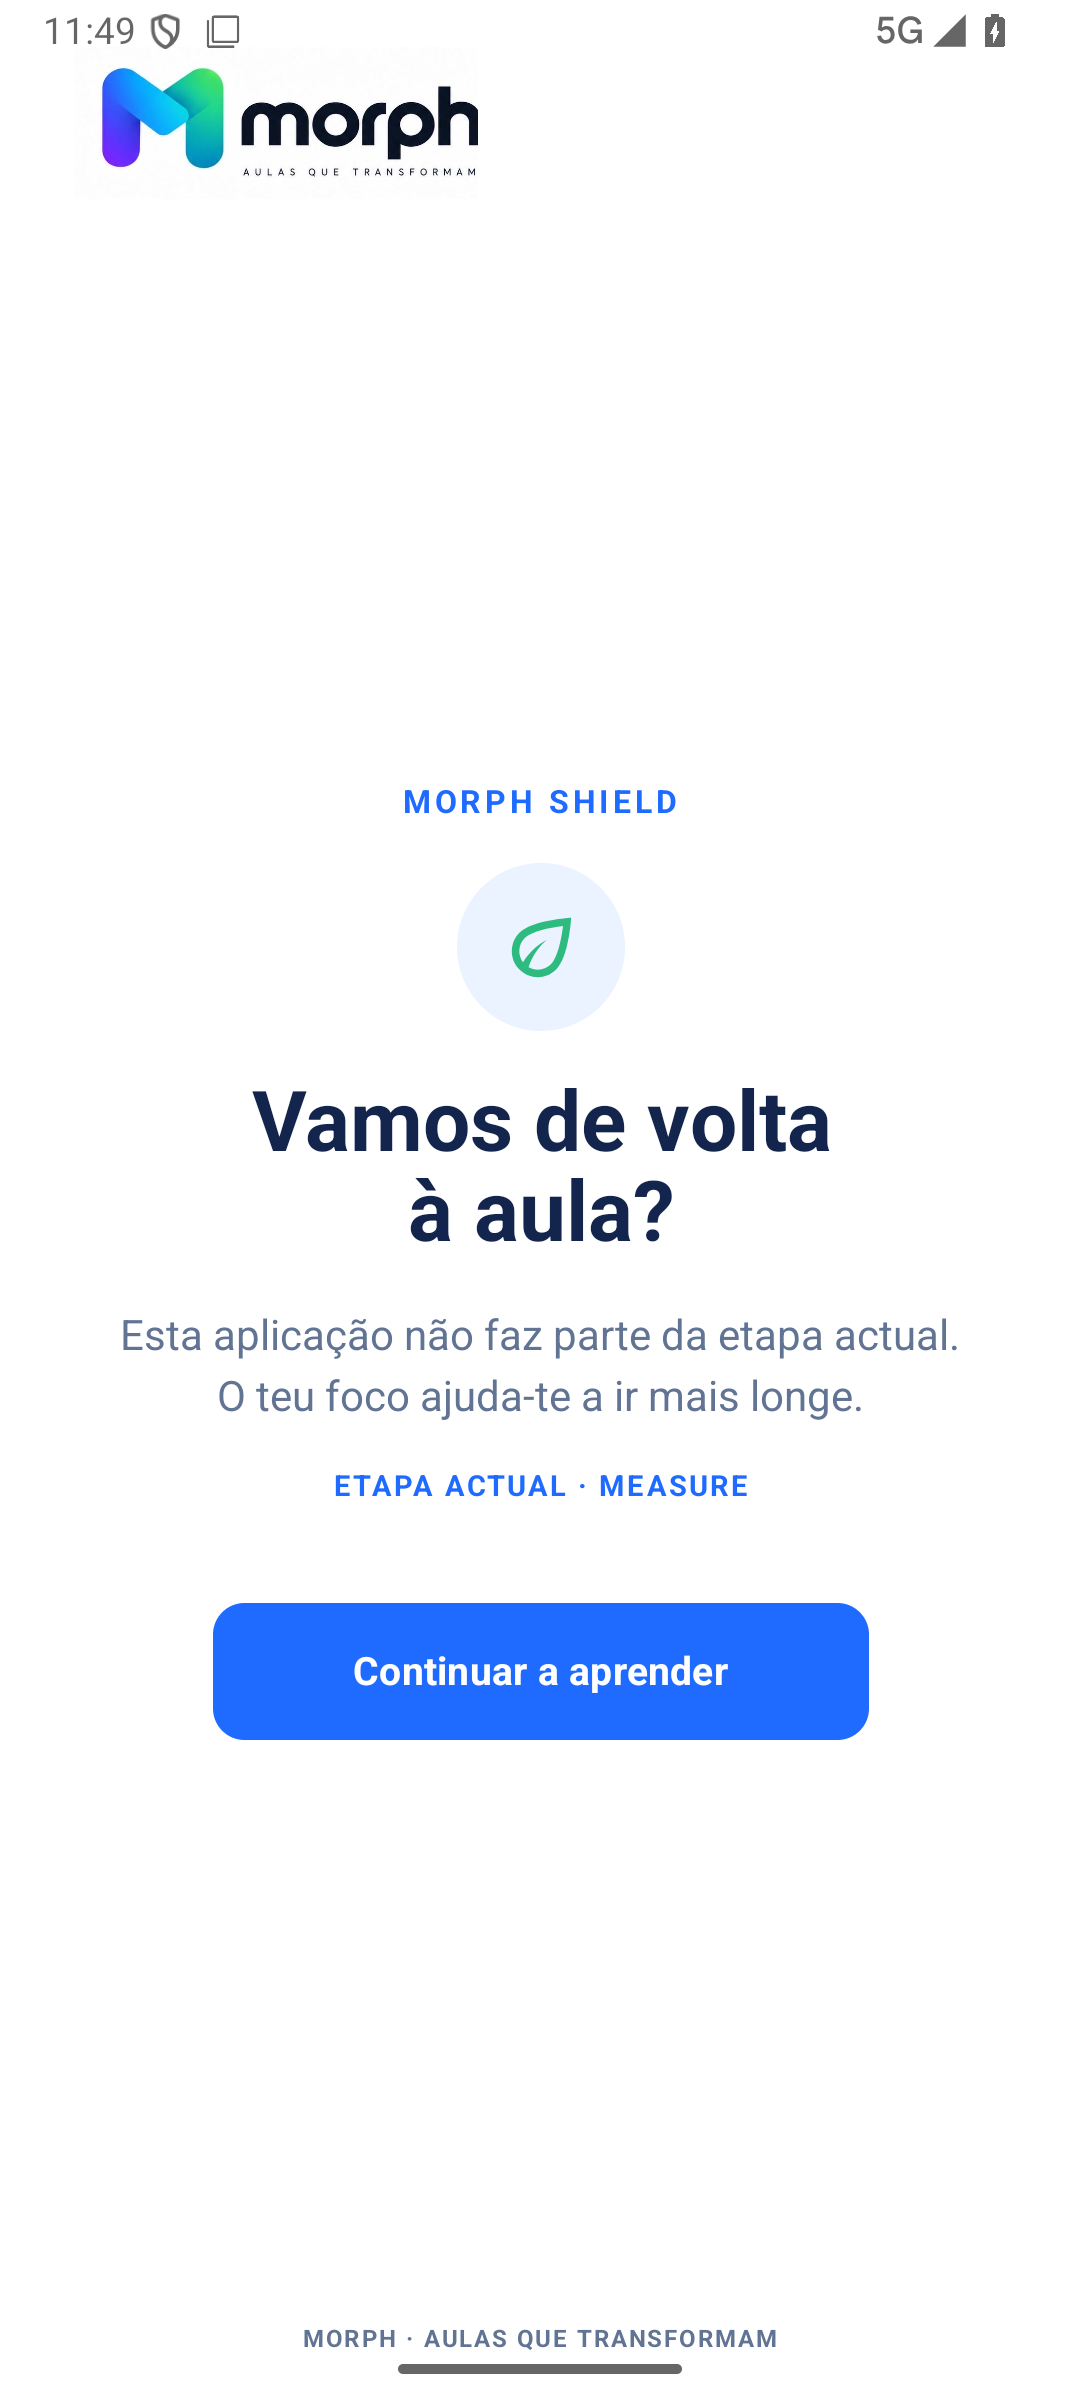
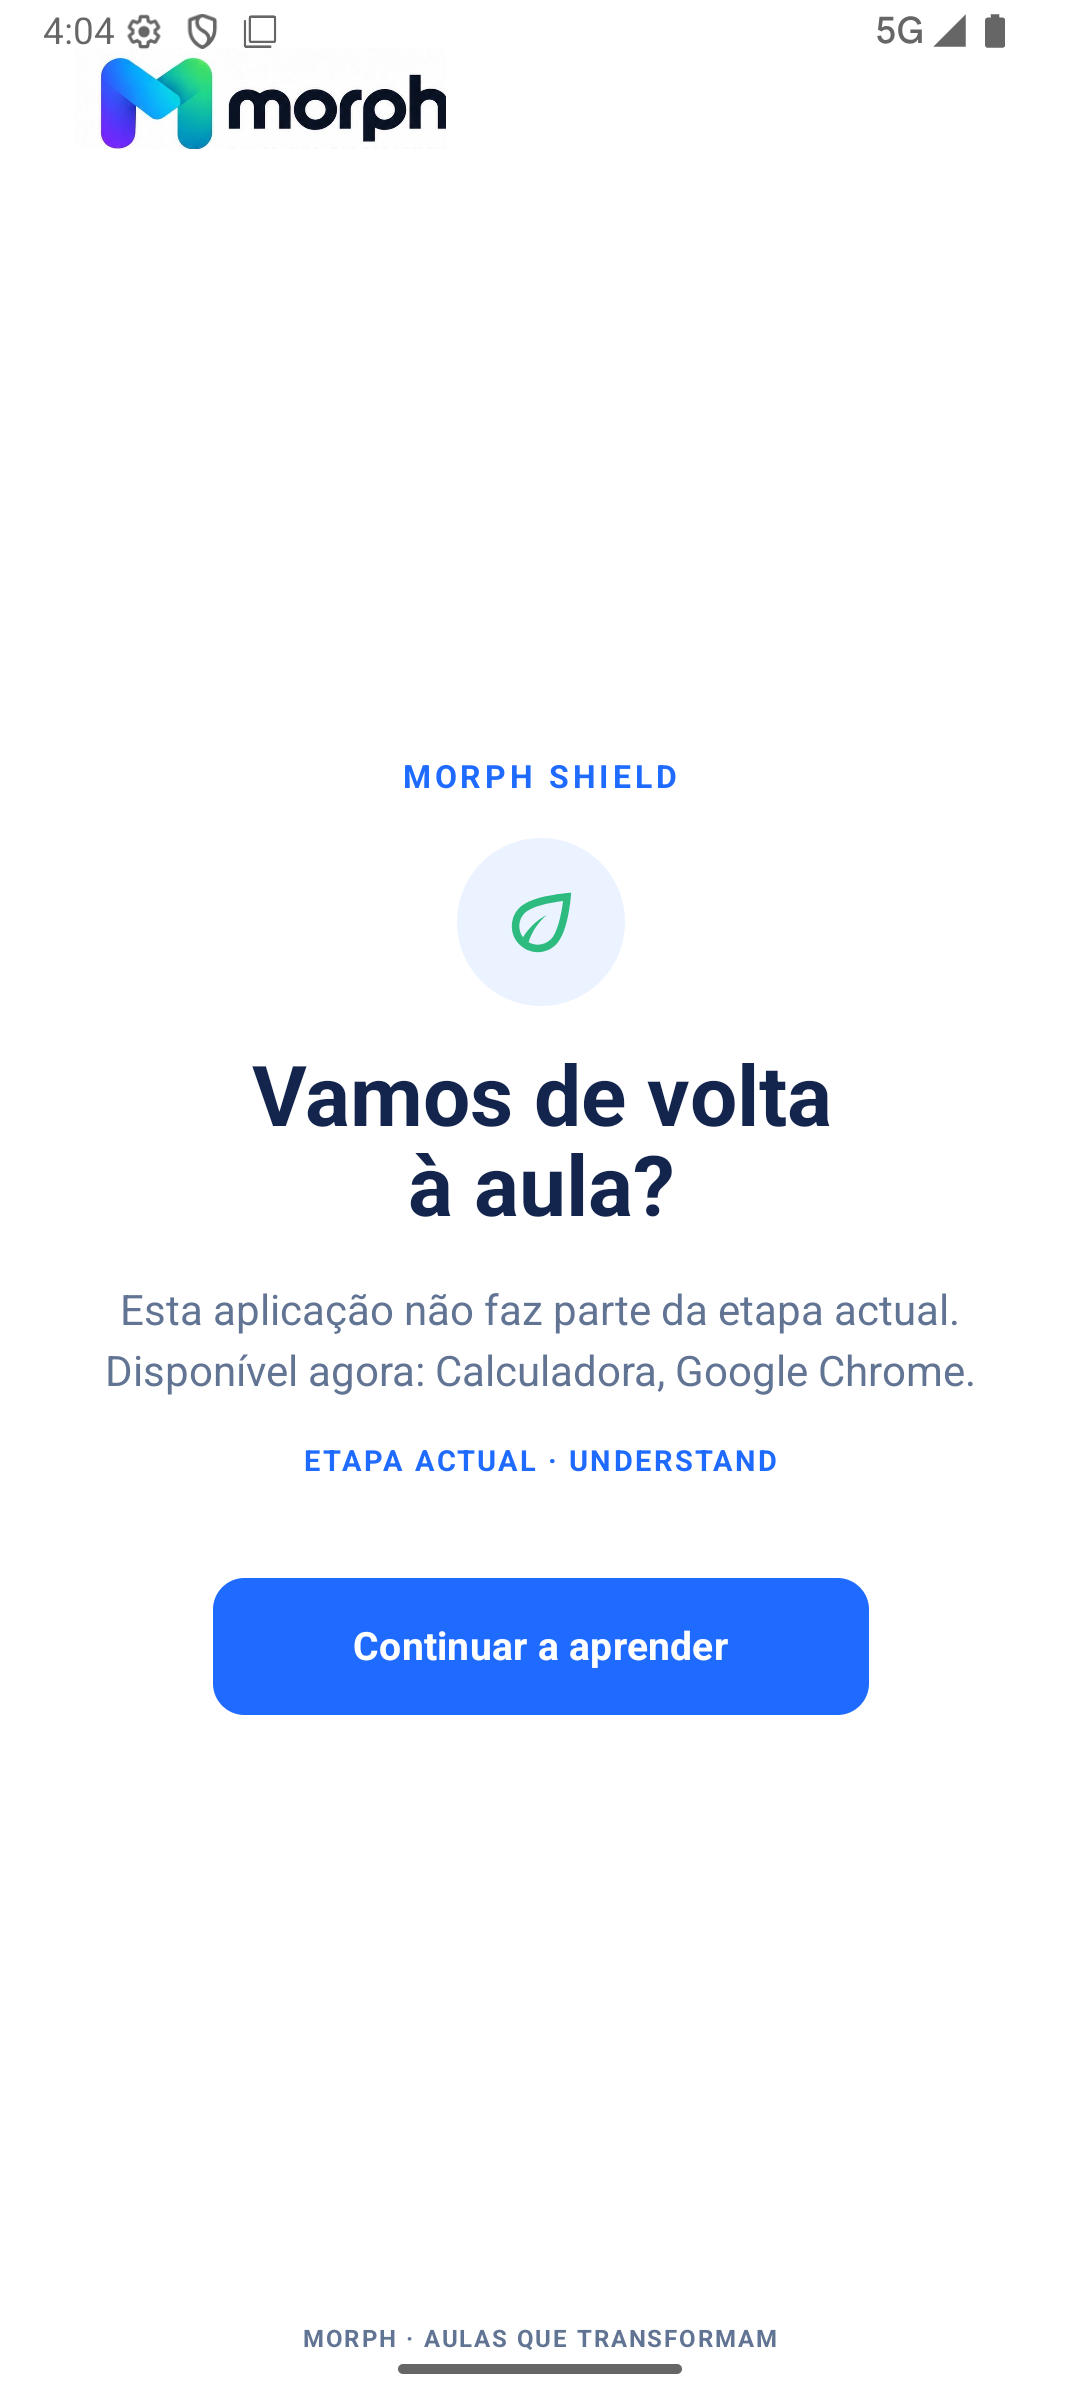
chore: refresh shield preview evidence

diff --git a/design-qa.md b/design-qa.md
@@ -18,6 +18,8 @@
 - Android Compreender state: `/tmp/morph-android-understand-final-2.png` — 1080 × 2400 px, live bridge session, post-splash capture.
 - Android Medir/Analisar/Reflectir states: `/tmp/morph-android-measure-latest.png`, `/tmp/morph-android-analyse-latest.png`, `/tmp/morph-android-reflect-latest.png` — 1080 × 2400 px, live bridge phase transitions.
 - Android Intervalo state: `/tmp/morph-android-break-latest.png` — 1080 × 2400 px, live bridge end-session transition.
+- Android Fora da escola state: `/tmp/morph-android-outside-latest.png` — 1080 × 2400 px, live bridge context transition.
+- Android Shield state: `/tmp/morph-android-shield-latest-3.png` — 1080 × 2400 px, restricted YouTube launch under an active UNDERSTAND policy.
 - Density normalization: screenshots were compared at their native pixel dimensions; no device frame was used for the desktop comparison. Android captures were taken at the emulator's native 1080 × 2400 px surface and compared with the 941 × 1672 px mobile references by layout hierarchy and responsive density, not as a pixel-for-pixel desktop match.
 
 ## State and interactions tested
@@ -50,6 +52,7 @@
 3. Re-captured `/tmp/morph-teacher-latest.png` and `/tmp/morph-school-latest.png`; shared shell, logo treatment and profile affordance have no actionable P0/P1/P2 mismatch.
 4. Rebuilt and installed Android, then captured the post-splash shell and every bridge-driven pedagogical phase; the mobile hierarchy, logo, navigation and phase surfaces have no actionable P0/P1/P2 mismatch.
 5. Replaced stale web Android preview captures with post-splash runtime captures and added a dedicated Reflectir capture, keeping the web preview consistent with the installed APK.
+6. Captured the OUTSIDE_SCHOOL context and a real restricted-app Shield response; both retain the corrected official logo and the intended policy/autonomy distinction.
 
 ## Final result
 
